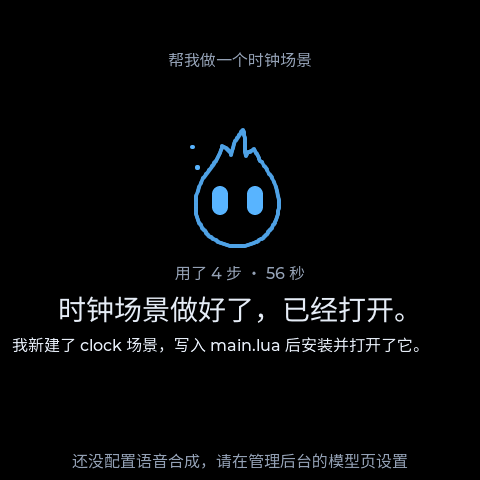
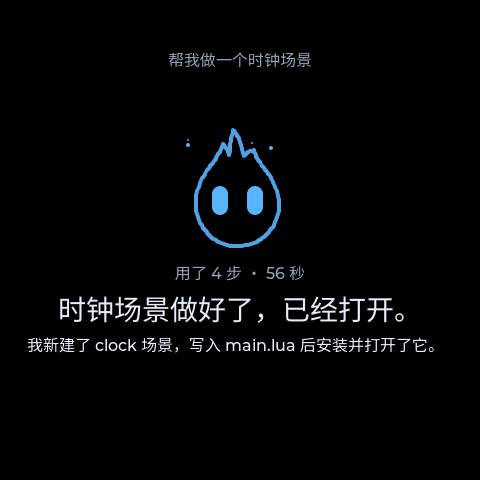
docs: show example scenes in the README and retake the finished-turn shot

diff --git a/README.md b/README.md
@@ -33,6 +33,17 @@
 - **数据留在本地**：管理后台只在局域网里用，API Key 只能写入、不能读出，删除场景这类大操作要在设备上确认。
 - **不绑定开发板**：硬件分层抽象，大部分开发在 PC 模拟器上完成。
 
+<table>
+  <tr>
+    <td align="center"><img src="docs/images/scene-clock.png" width="170"><br><sub>时钟</sub></td>
+    <td align="center"><img src="docs/images/scene-pomodoro.png" width="170"><br><sub>番茄钟</sub></td>
+    <td align="center"><img src="docs/images/scene-weather.png" width="170"><br><sub>天气</sub></td>
+    <td align="center"><img src="docs/images/scene-level.png" width="170"><br><sub>水平仪</sub></td>
+  </tr>
+</table>
+
+<sub>以上是 <a href="scenes/examples/"><code>scenes/examples/</code></a> 里的示例场景，每个都只有一个 <code>main.lua</code>，大多不到 200 行。</sub>
+
 ## 👆 怎么用
 
 | 操作 | 作用 |
